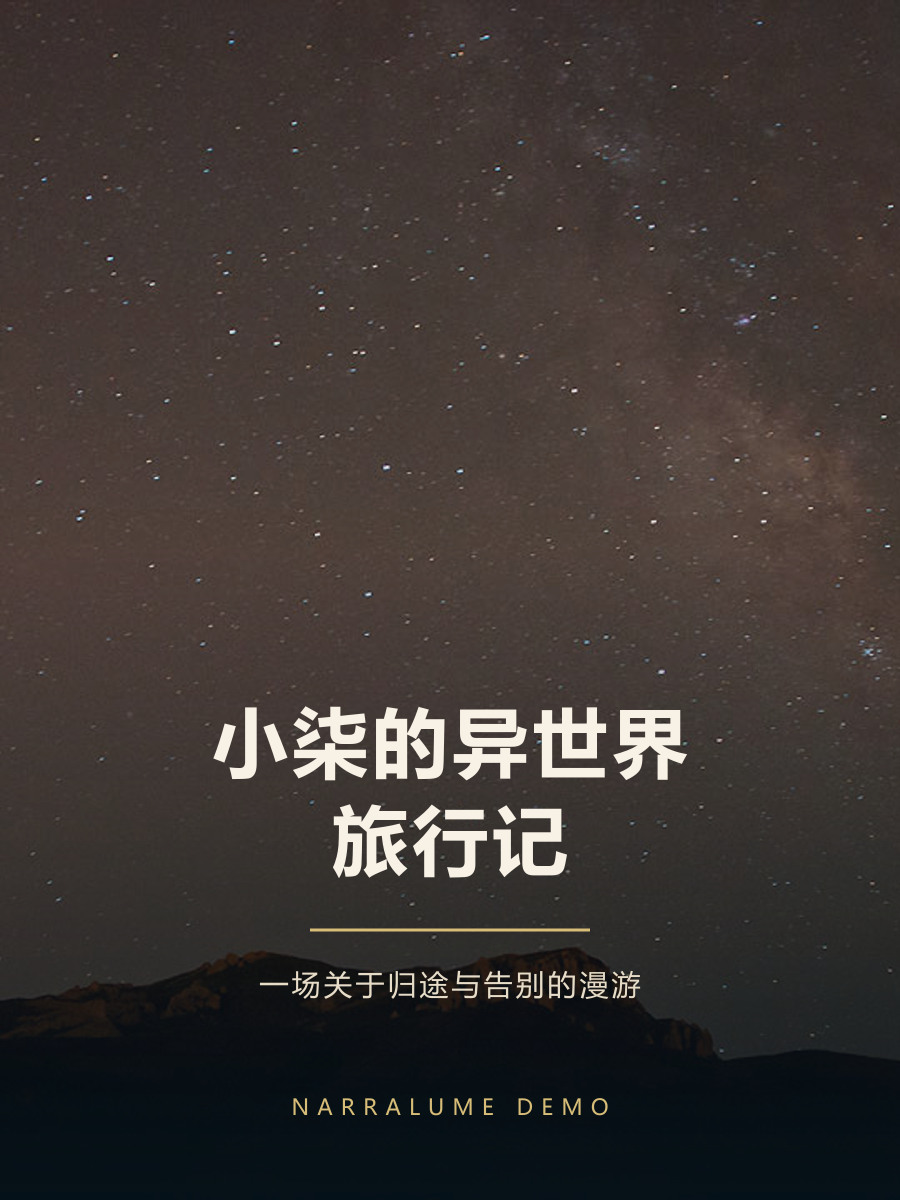
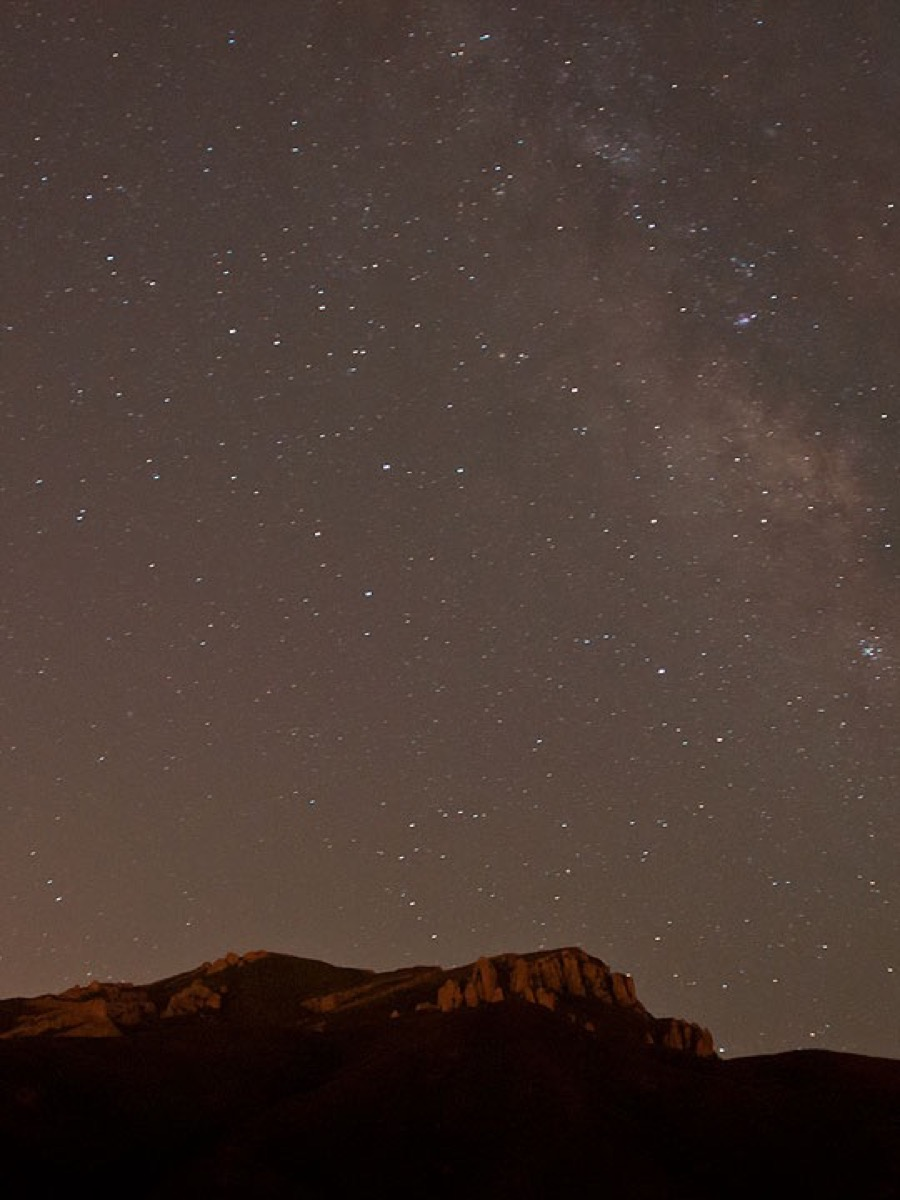
docs: retake the user-guide screenshots with the Lapis interface
scripts/docs-screenshots.ts (npm run docs:screenshots) takes the ten
assets/lapis-*-1920x1080.png screenshots from a running app with the
example book, adding the three extra shelf books and the demo cover once.
The old narralume-* screenshots, including the unreferenced 390x844 one,
are removed. The demo cover is cut again from the public-domain source
photo, without the Chinese title and the NarraLume imprint.

diff --git a/scripts/docs-screenshots.ts b/scripts/docs-screenshots.ts
@@ -1,0 +1,166 @@
+import { randomUUID } from "node:crypto";
+import { readFileSync } from "node:fs";
+import { join } from "node:path";
+import { fileURLToPath } from "node:url";
+
+import { chromium, type Page } from "@playwright/test";
+
+import { EXAMPLE_PROJECT_ID } from "./fixtures/example-book.js";
+
+/* npm run docs:screenshots — retakes the user-guide screenshots in
+   assets/lapis-*-1920x1080.png (light theme, Portuguese UI).
+
+   Needs the app running (npm run dev) on a library that has the example book
+   (npm run seed:example) and a model assigned, so the assistant shows its
+   composer. The script adds the three extra shelf books once, by title, and
+   puts the demo cover on one of them. Pass --url=<web url> for another port. */
+
+const root = fileURLToPath(new URL("..", import.meta.url));
+const baseUrl = (
+  process.argv.find((argument) => argument.startsWith("--url="))?.slice(6) ??
+  "http://127.0.0.1:4318"
+).replace(/\/$/, "");
+
+const SHELF_BOOKS = [
+  {
+    title: "Inventário do Inverno",
+    subtitle: "Novela",
+    form: "novella",
+    premise:
+      "Uma tradutora herda a casa da avó em Curitiba e precisa decidir o que guardar antes da primeira geada.",
+  },
+  {
+    title: "Contos de Rodoviária",
+    subtitle: "Contos",
+    form: "short-story",
+    premise:
+      "Doze contos curtos sobre quem espera, chega e vai embora na rodoviária de uma cidade do interior.",
+  },
+  {
+    title: "A Serra das Sete Estrelas",
+    subtitle: "Romance",
+    form: "novel",
+    premise:
+      "Uma astrônoma amadora volta à cidade natal na serra para fechar o observatório do pai e encontra um caderno de observações que ele nunca mostrou a ninguém.",
+    cover: { file: "assets/lapis-demo-cover.jpg", width: 900, height: 1200 },
+  },
+] as const;
+
+interface ProjectSummary {
+  id: string;
+  title: string;
+  subtitle: string | null;
+  premise: string | null;
+  archivedAt: string | null;
+  updatedAt: string;
+  cover: unknown;
+}
+
+async function api<T>(path: string, init: RequestInit = {}): Promise<T> {
+  const response = await fetch(`${baseUrl}${path}`, {
+    ...init,
+    headers: { "content-type": "application/json", ...init.headers },
+  });
+  if (!response.ok) {
+    throw new Error(
+      `${init.method ?? "GET"} ${path}: ${response.status} ${await response.text()}`,
+    );
+  }
+  return (await response.json()) as T;
+}
+
+async function prepareLibrary(): Promise<void> {
+  const projects = await api<ProjectSummary[]>("/api/projects");
+  if (!projects.some((project) => project.id === EXAMPLE_PROJECT_ID)) {
+    throw new Error(
+      "The example book is missing; run npm run seed:example first.",
+    );
+  }
+  for (const book of SHELF_BOOKS) {
+    let project = projects.find((item) => item.title === book.title);
+    if (!project) {
+      project = await api<ProjectSummary>("/api/projects", {
+        method: "POST",
+        body: JSON.stringify({
+          requestId: randomUUID(),
+          title: book.title,
+          subtitle: book.subtitle,
+          premise: book.premise,
+          language: "pt-BR",
+          form: book.form,
+        }),
+      });
+    }
+    if ("cover" in book && !project.cover) {
+      await api(`/api/projects/${project.id}`, {
+        method: "PUT",
+        body: JSON.stringify({
+          title: project.title,
+          subtitle: project.subtitle,
+          premise: project.premise,
+          archived: project.archivedAt !== null,
+          expectedUpdatedAt: project.updatedAt,
+          cover: {
+            action: "put",
+            mediaType: "image/jpeg",
+            imageBase64: readFileSync(join(root, book.cover.file)).toString(
+              "base64",
+            ),
+            width: book.cover.width,
+            height: book.cover.height,
+            crop: { x: 0.5, y: 0.5, zoom: 1 },
+          },
+        }),
+      });
+    }
+  }
+}
+
+const project = `/projects/${EXAMPLE_PROJECT_ID}`;
+const SHOTS: { name: string; path: string; assistant?: boolean }[] = [
+  { name: "shelf", path: "/shelf" },
+  { name: "overview", path: `${project}/overview` },
+  { name: "bible", path: `${project}/bible` },
+  { name: "studio", path: `${project}/studio` },
+  { name: "autopilot", path: `${project}/autopilot` },
+  { name: "assistant", path: `${project}/overview`, assistant: true },
+  { name: "runs", path: `${project}/runs` },
+  { name: "lab", path: `${project}/lab` },
+  { name: "settings", path: "/settings" },
+  { name: "delivery", path: `${project}/delivery` },
+];
+
+async function settle(page: Page): Promise<void> {
+  await page.waitForLoadState("networkidle");
+  await page.evaluate(() => document.fonts.ready);
+  // Lets entry transitions and lazy panels finish.
+  await page.waitForTimeout(1200);
+}
+
+await prepareLibrary();
+const browser = await chromium.launch();
+try {
+  for (const shot of SHOTS) {
+    const context = await browser.newContext({
+      viewport: { width: 1920, height: 1080 },
+      locale: "pt-BR",
+      colorScheme: "light",
+    });
+    await context.addInitScript((assistantOpen) => {
+      window.localStorage.setItem("lapis:ui-locale", "pt-BR");
+      window.localStorage.setItem(
+        "lapis:assistant-open",
+        assistantOpen ? "1" : "0",
+      );
+    }, shot.assistant === true);
+    const page = await context.newPage();
+    await page.goto(`${baseUrl}${shot.path}`);
+    await settle(page);
+    const file = join(root, "assets", `lapis-${shot.name}-1920x1080.png`);
+    await page.screenshot({ path: file });
+    process.stdout.write(`${file}\n`);
+    await context.close();
+  }
+} finally {
+  await browser.close();
+}

diff --git a/docs/user-guide.md b/docs/user-guide.md
@@ -42,7 +42,7 @@ A interface está disponível em português do Brasil, o idioma principal, e em 
 
 A Estante é a porta de entrada de todas as obras. Cada livro mostra capa, título, subtítulo, premissa, número de capítulos, número de caracteres e a data da última atualização.
 
-![Estante, entradas de criação de livro e uma capa personalizada](../assets/narralume-shelf-1920x1080.png)
+![Estante, entradas de criação de livro e uma capa personalizada](../assets/lapis-shelf-1920x1080.png)
 
 A busca procura no título, na premissa e no ID. A barra de ferramentas alterna entre as vistas "Capas" e "Lista"; "Incl. arquivados" só decide se as obras arquivadas aparecem — não muda o estado de nenhuma obra.
 
@@ -113,7 +113,7 @@ Ao entrar numa obra, você chega à "Visão geral", encabeçada pelo título do 
 
 Você pode sair da página enquanto uma tarefa continua em segundo plano. Ao voltar, retome o ponto em que parou pela visão geral ou pelo cartão da tarefa ("Voltar à tarefa") — não envie o mesmo trabalho duas vezes.
 
-![Visão geral do projeto, tarefas ativas e entradas do próximo passo](../assets/narralume-overview-1920x1080.png)
+![Visão geral do projeto, tarefas ativas e entradas do próximo passo](../assets/lapis-overview-1920x1080.png)
 
 ## História: manter o material da história
 
@@ -161,7 +161,7 @@ A linha do tempo registra eventos do mundo da história, com datas e observaçõ
 
 Em "Mudanças candidatas", escreva o que quer acrescentar ou ajustar — por exemplo, "deixar a motivação do personagem mais concreta, sem mudar o final travado". Depois de "Gerar mudanças candidatas", revise as diferenças item a item e escolha "Adotar este item" ou "Recusar". Nada entra no material da história antes da adoção.
 
-![As sete seções da Bíblia da história, o painel de completar a partir do manuscrito e a edição da página](../assets/narralume-bible-1920x1080.png)
+![As sete seções da Bíblia da história, o painel de completar a partir do manuscrito e a edição da página](../assets/lapis-bible-1920x1080.png)
 
 ## Escrita: do rascunho à versão oficial
 
@@ -217,7 +217,7 @@ Se uma mudança conflitar com o cânone atual — por exemplo, com um registro t
 
 A cocriação não faz parte da v1, e a mesa de escrita não leva mais a ela.
 
-![Lista de rascunhos, prosa, revisão e versões na mesa de escrita](../assets/narralume-studio-1920x1080.png)
+![Lista de rascunhos, prosa, revisão e versões na mesa de escrita](../assets/lapis-studio-1920x1080.png)
 
 ## Criação rápida com IA: vários capítulos numa só execução
 
@@ -240,7 +240,7 @@ A página mostra o capítulo atual, as etapas, o motivo de qualquer parada e as 
 - Depois que um candidato é adotado, os capítulos seguintes continuam a partir do novo estado.
 - Quando a tarefa encontra um conflito com um fato travado ou um problema crítico de revisão, ela para e espera você resolver.
 
-![As áreas de direção, confirmação, execução e intervenção da criação rápida com IA](../assets/narralume-autopilot-1920x1080.png)
+![As áreas de direção, confirmação, execução e intervenção da criação rápida com IA](../assets/lapis-autopilot-1920x1080.png)
 
 ## Assistente do projeto: achar o caminho numa frase
 
@@ -266,7 +266,7 @@ As duas ficam em "Configurações" → "Ferramentas avançadas", para o projeto 
 
 Uma Agent Skill importada só usa as capacidades somente leitura ou de candidato que o sistema permite; não roda scripts arbitrários, não faz requisições de rede arbitrárias nem grava direto no banco de dados. A adoção de prosa oficial e de cânone confirmado continua seguindo os limites de confirmação embutidos no produto.
 
-![A barra lateral do assistente de IA na visão geral do projeto](../assets/narralume-assistant-1920x1080.png)
+![A barra lateral do assistente de IA na visão geral do projeto](../assets/lapis-assistant-1920x1080.png)
 
 ## Ferramentas avançadas
 
@@ -278,7 +278,7 @@ A página só mostra as operações que o estado atual permite — pausar, retom
 
 Quando uma criação comum falhar, prefira resolvê-la na mesa de escrita ou no cartão da tarefa de criação rápida; entre na Central de execuções quando precisar conferir o motivo da falha, o uso do modelo ou a prosa parcial.
 
-![A Central de execuções de uma obra que ainda não rodou tarefas de IA](../assets/narralume-runs-1920x1080.png)
+![A Central de execuções de uma obra que ainda não rodou tarefas de IA](../assets/lapis-runs-1920x1080.png)
 
 ### Laboratório narrativo
 
@@ -286,7 +286,7 @@ O Laboratório narrativo oferece estes tipos de operação: buscar na memória d
 
 As previsões podem ser adotadas ("Adotar") como referência futura ou dispensadas ("Dispensar"); quando o material da história em que se basearam muda, as previsões antigas ficam marcadas como "Desatualizada" e não podem mais ser adotadas. A manutenção da memória e a prévia de impacto são ferramentas de análise — nunca reescrevem sozinhas a prosa, o cânone confirmado ou a linha do tempo.
 
-![Previsões, memória, busca e prévia de impacto no Laboratório narrativo](../assets/narralume-lab-1920x1080.png)
+![Previsões, memória, busca e prévia de impacto no Laboratório narrativo](../assets/lapis-lab-1920x1080.png)
 
 ### Configurações
 
@@ -302,7 +302,7 @@ As Configurações têm estas seções:
 
 O núcleo no navegador usa "Baixar minha biblioteca (.sqlite)" para obter o arquivo SQLite completo; o Server local usa os arquivos de backup do sistema ou os scripts de backup. Trocar o driver de execução não migra dados; ver outra biblioteca depois de recarregar a página é normal.
 
-![Idioma da interface, modelos atribuídos aos papéis, modelos de prompt e provedores em Configurações](../assets/narralume-settings-1920x1080.png)
+![Idioma da interface, modelos atribuídos aos papéis, modelos de prompt e provedores em Configurações](../assets/lapis-settings-1920x1080.png)
 
 ## Entrega: exportar e guardar
 
@@ -328,7 +328,7 @@ Depois de restaurar, confira a estrutura, as versões mais recentes da prosa, os
 
 No modo navegador, use "Baixar minha biblioteca (.sqlite)" nas Configurações; com o Server local, use `scripts/backup.ps1` no Windows ou `scripts/backup.sh` no macOS/Linux; com o Docker, use `scripts/docker-backup.ps1`. Um backup SQLite completo pode conter credenciais de provedores, então guarde-o num diretório controlado, como o próprio manuscrito. Nunca copie o arquivo do banco principal diretamente com o serviço rodando.
 
-![Avisos de qualidade, formatos de exportação e instantâneos do conteúdo do projeto](../assets/narralume-delivery-1920x1080.png)
+![Avisos de qualidade, formatos de exportação e instantâneos do conteúdo do projeto](../assets/lapis-delivery-1920x1080.png)
 
 ## Celular e computador
 
